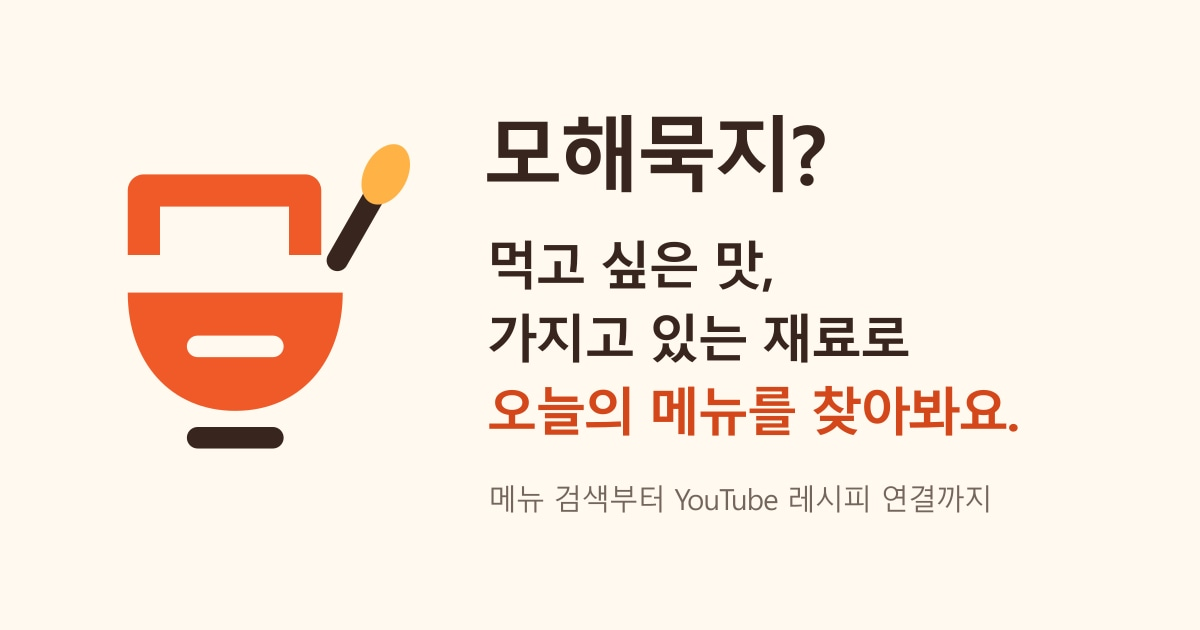
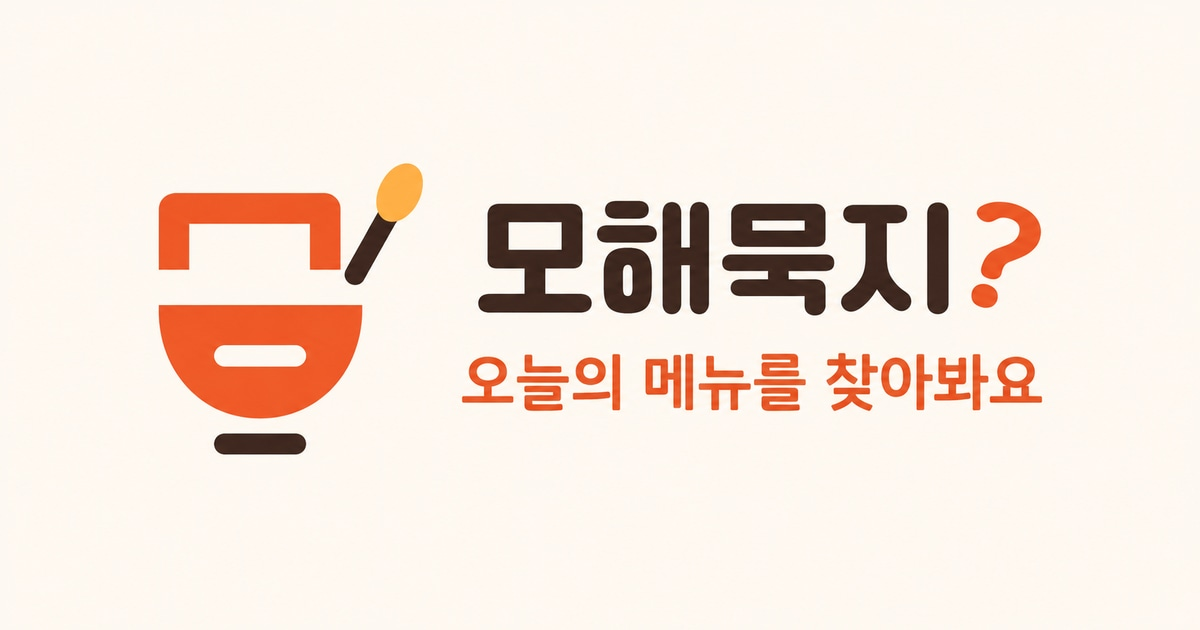
improve: 미리 보기 이미지 개선

Changed region(s): [[0.37, 0.181, 0.8942, 0.6937], [0.0925, 0.2111, 0.37, 0.7238], [0.4008, 0.754, 0.8325, 0.8143]]

diff --git a/index.html b/index.html
@@ -17,16 +17,10 @@
     <meta property="og:image:type" content="image/jpeg" />
     <meta property="og:image:width" content="1200" />
     <meta property="og:image:height" content="630" />
-    <meta
-      property="og:image:alt"
-      content="모해묵지? 먹고 싶은 맛과 가지고 있는 재료로 오늘의 메뉴를 찾아봐요."
-    />
+    <meta property="og:image:alt" content="모해묵지? 오늘의 메뉴를 찾아봐요" />
     <meta name="twitter:card" content="summary_large_image" />
     <meta name="twitter:image" content="/social-preview.jpg" />
-    <meta
-      name="twitter:image:alt"
-      content="모해묵지? 먹고 싶은 맛과 가지고 있는 재료로 오늘의 메뉴를 찾아봐요."
-    />
+    <meta name="twitter:image:alt" content="모해묵지? 오늘의 메뉴를 찾아봐요" />
     <link rel="icon" type="image/svg+xml" href="/favicon.svg" />
     <link rel="preconnect" href="https://cdn.jsdelivr.net" crossorigin />
     <link
